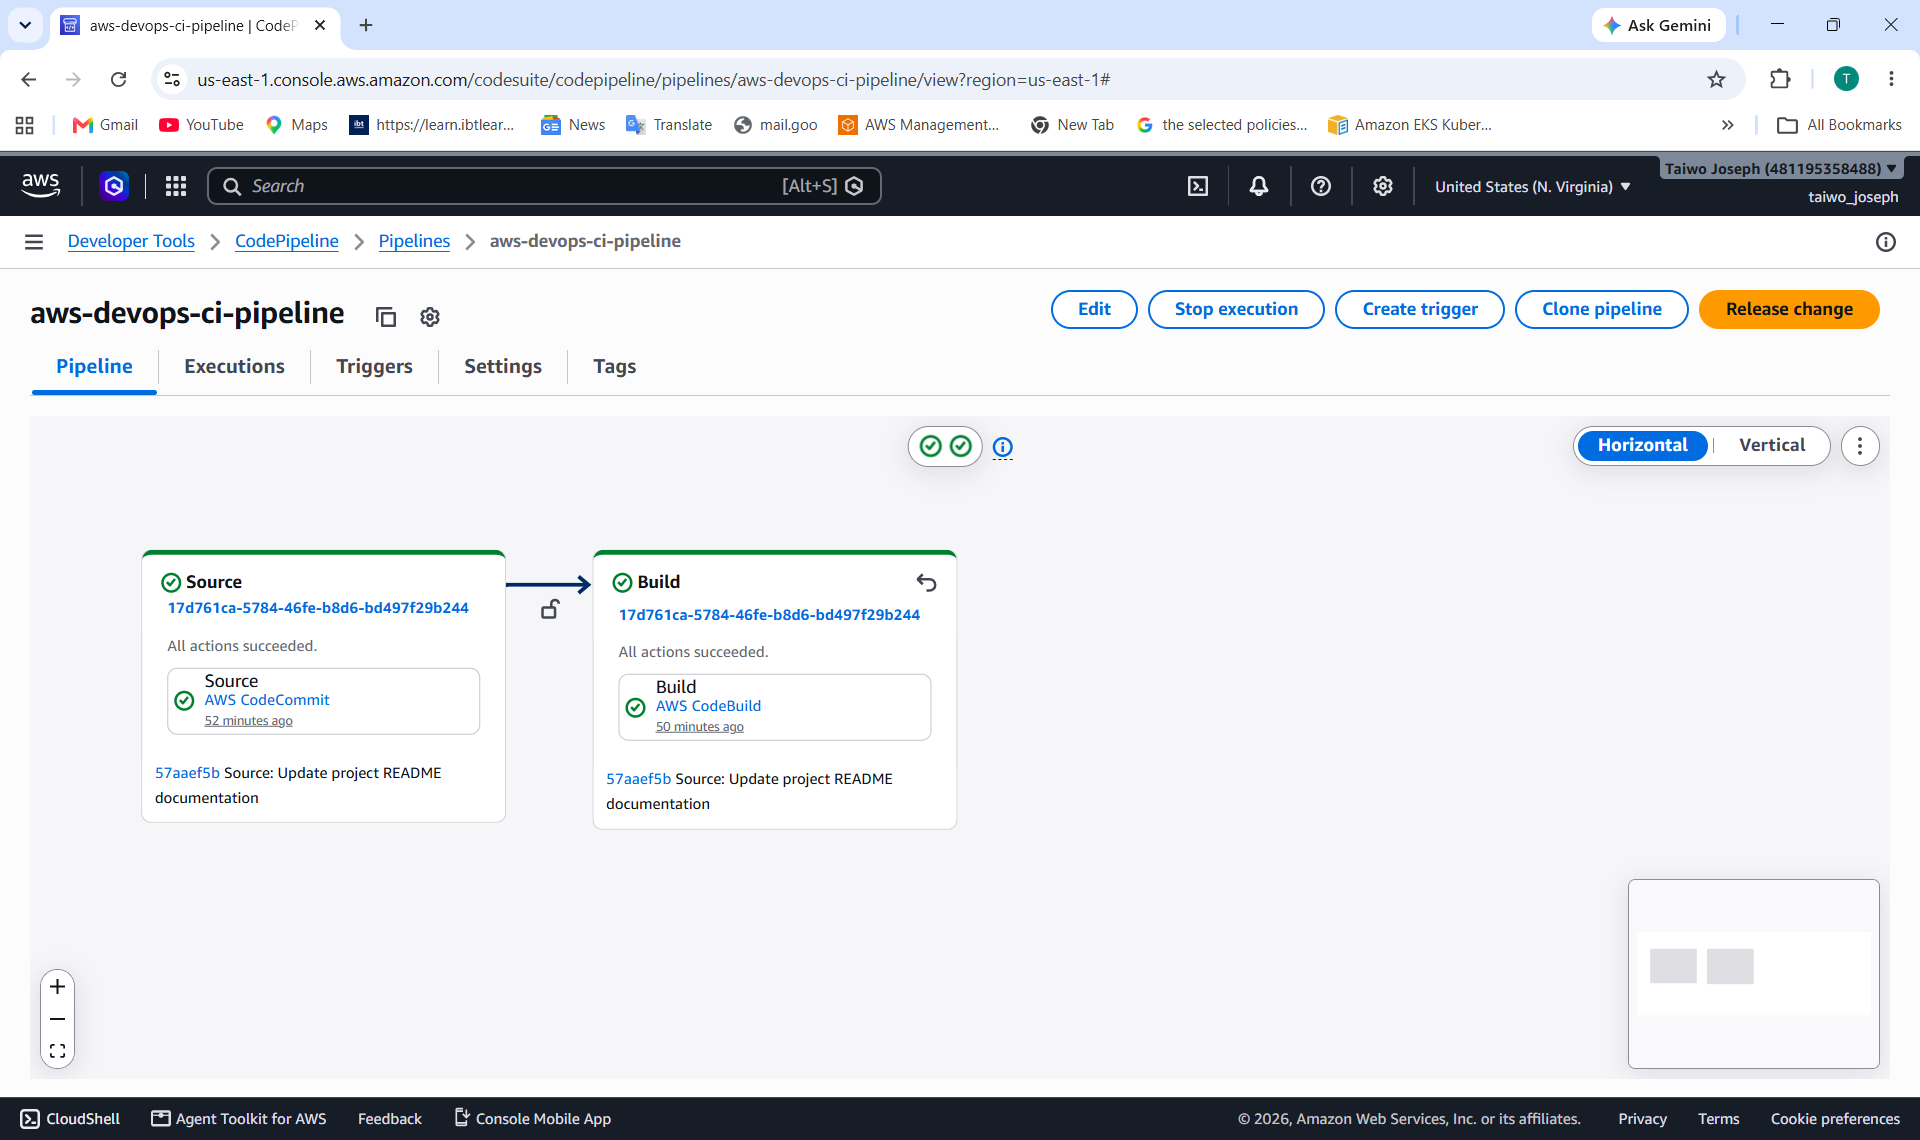
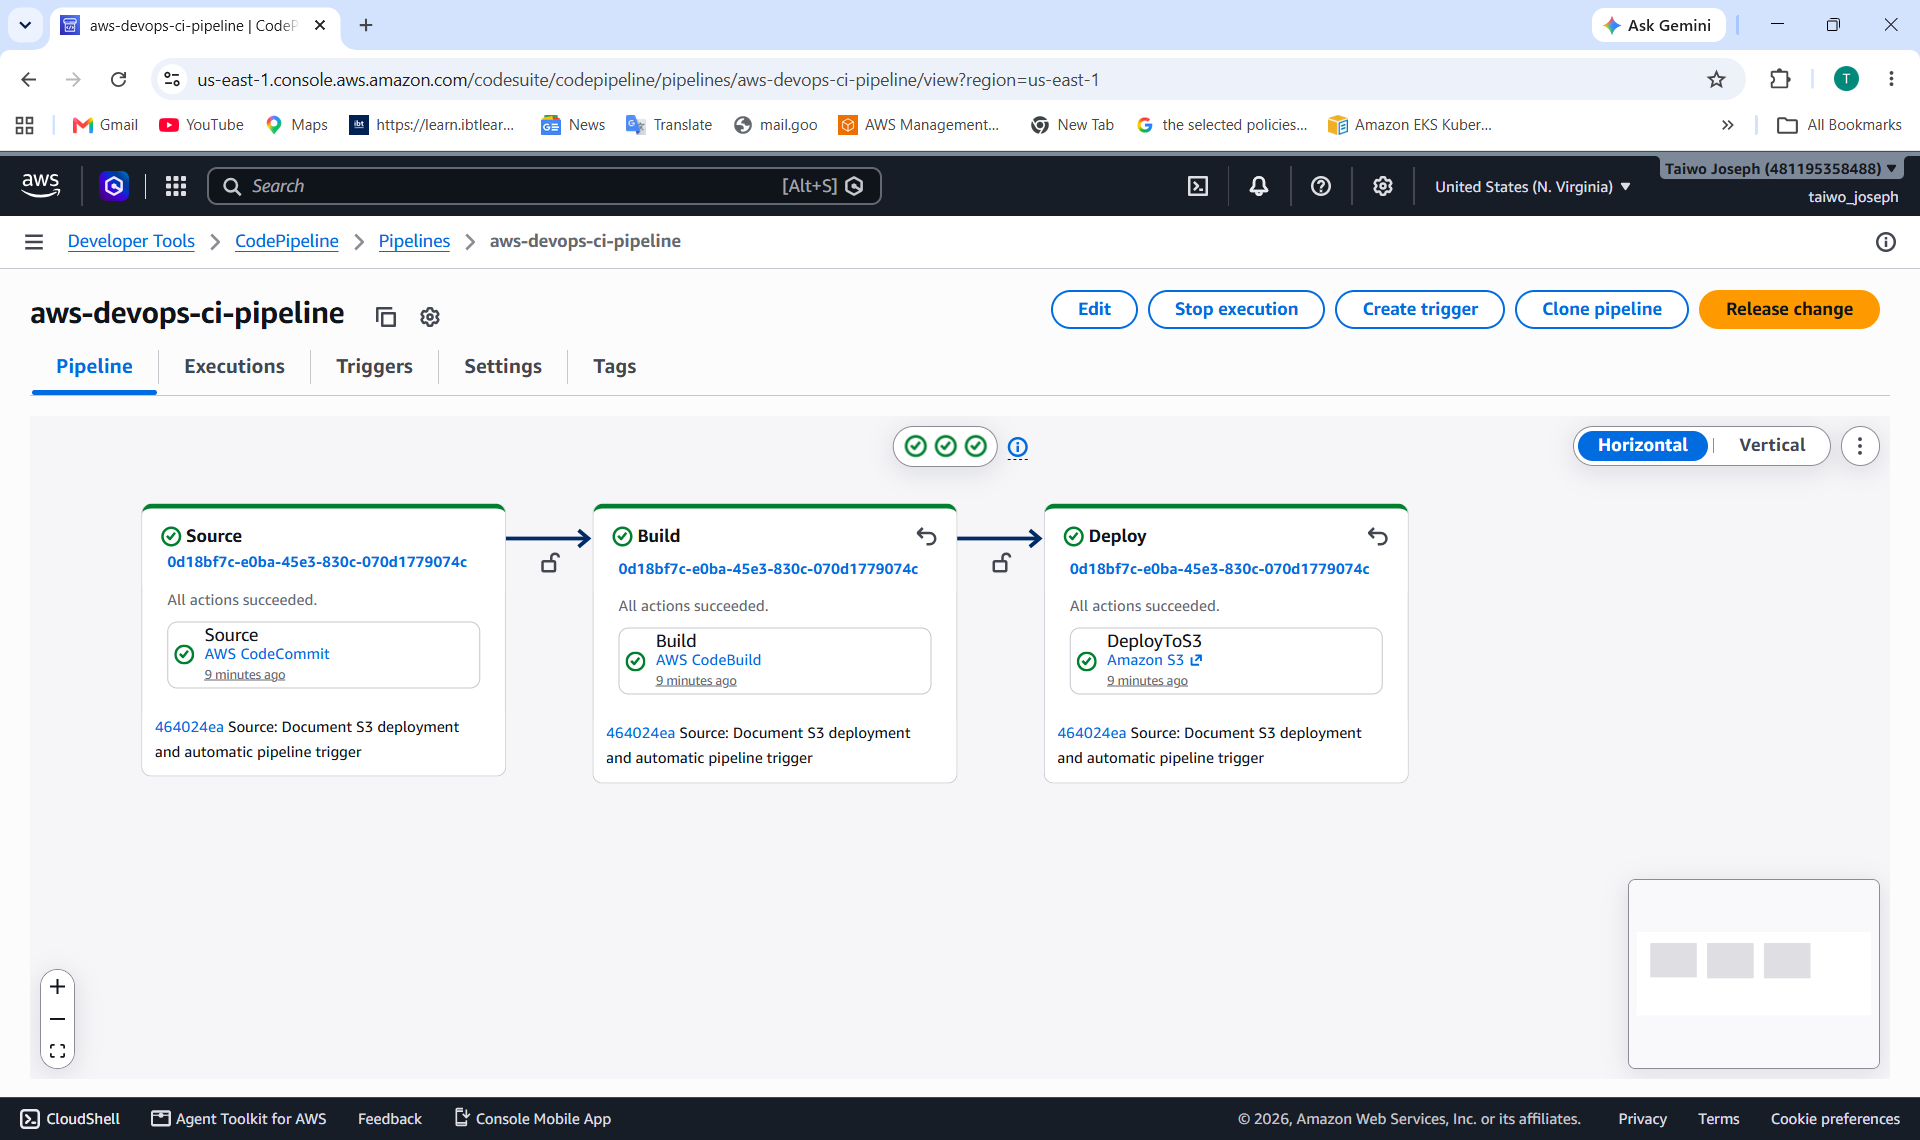
Update pipeline screenshot and document all evidence

diff --git a/README.md b/README.md
@@ -274,6 +274,12 @@ Shows the files packaged in the downloaded build artifact.
 
 ![Build artifact contents](screenshots/build-artifact-contents.png)
 
+### 6. CodeCommit Repository
+
+Shows the AWS CodeCommit repository used as the source for the CI pipeline.
+
+![CodeCommit repository](screenshots/codecommit-repository.png)
+
 ## AWS CLI Verification
 
 The AWS CLI was verified using the `aws sts get-caller-identity` command.
